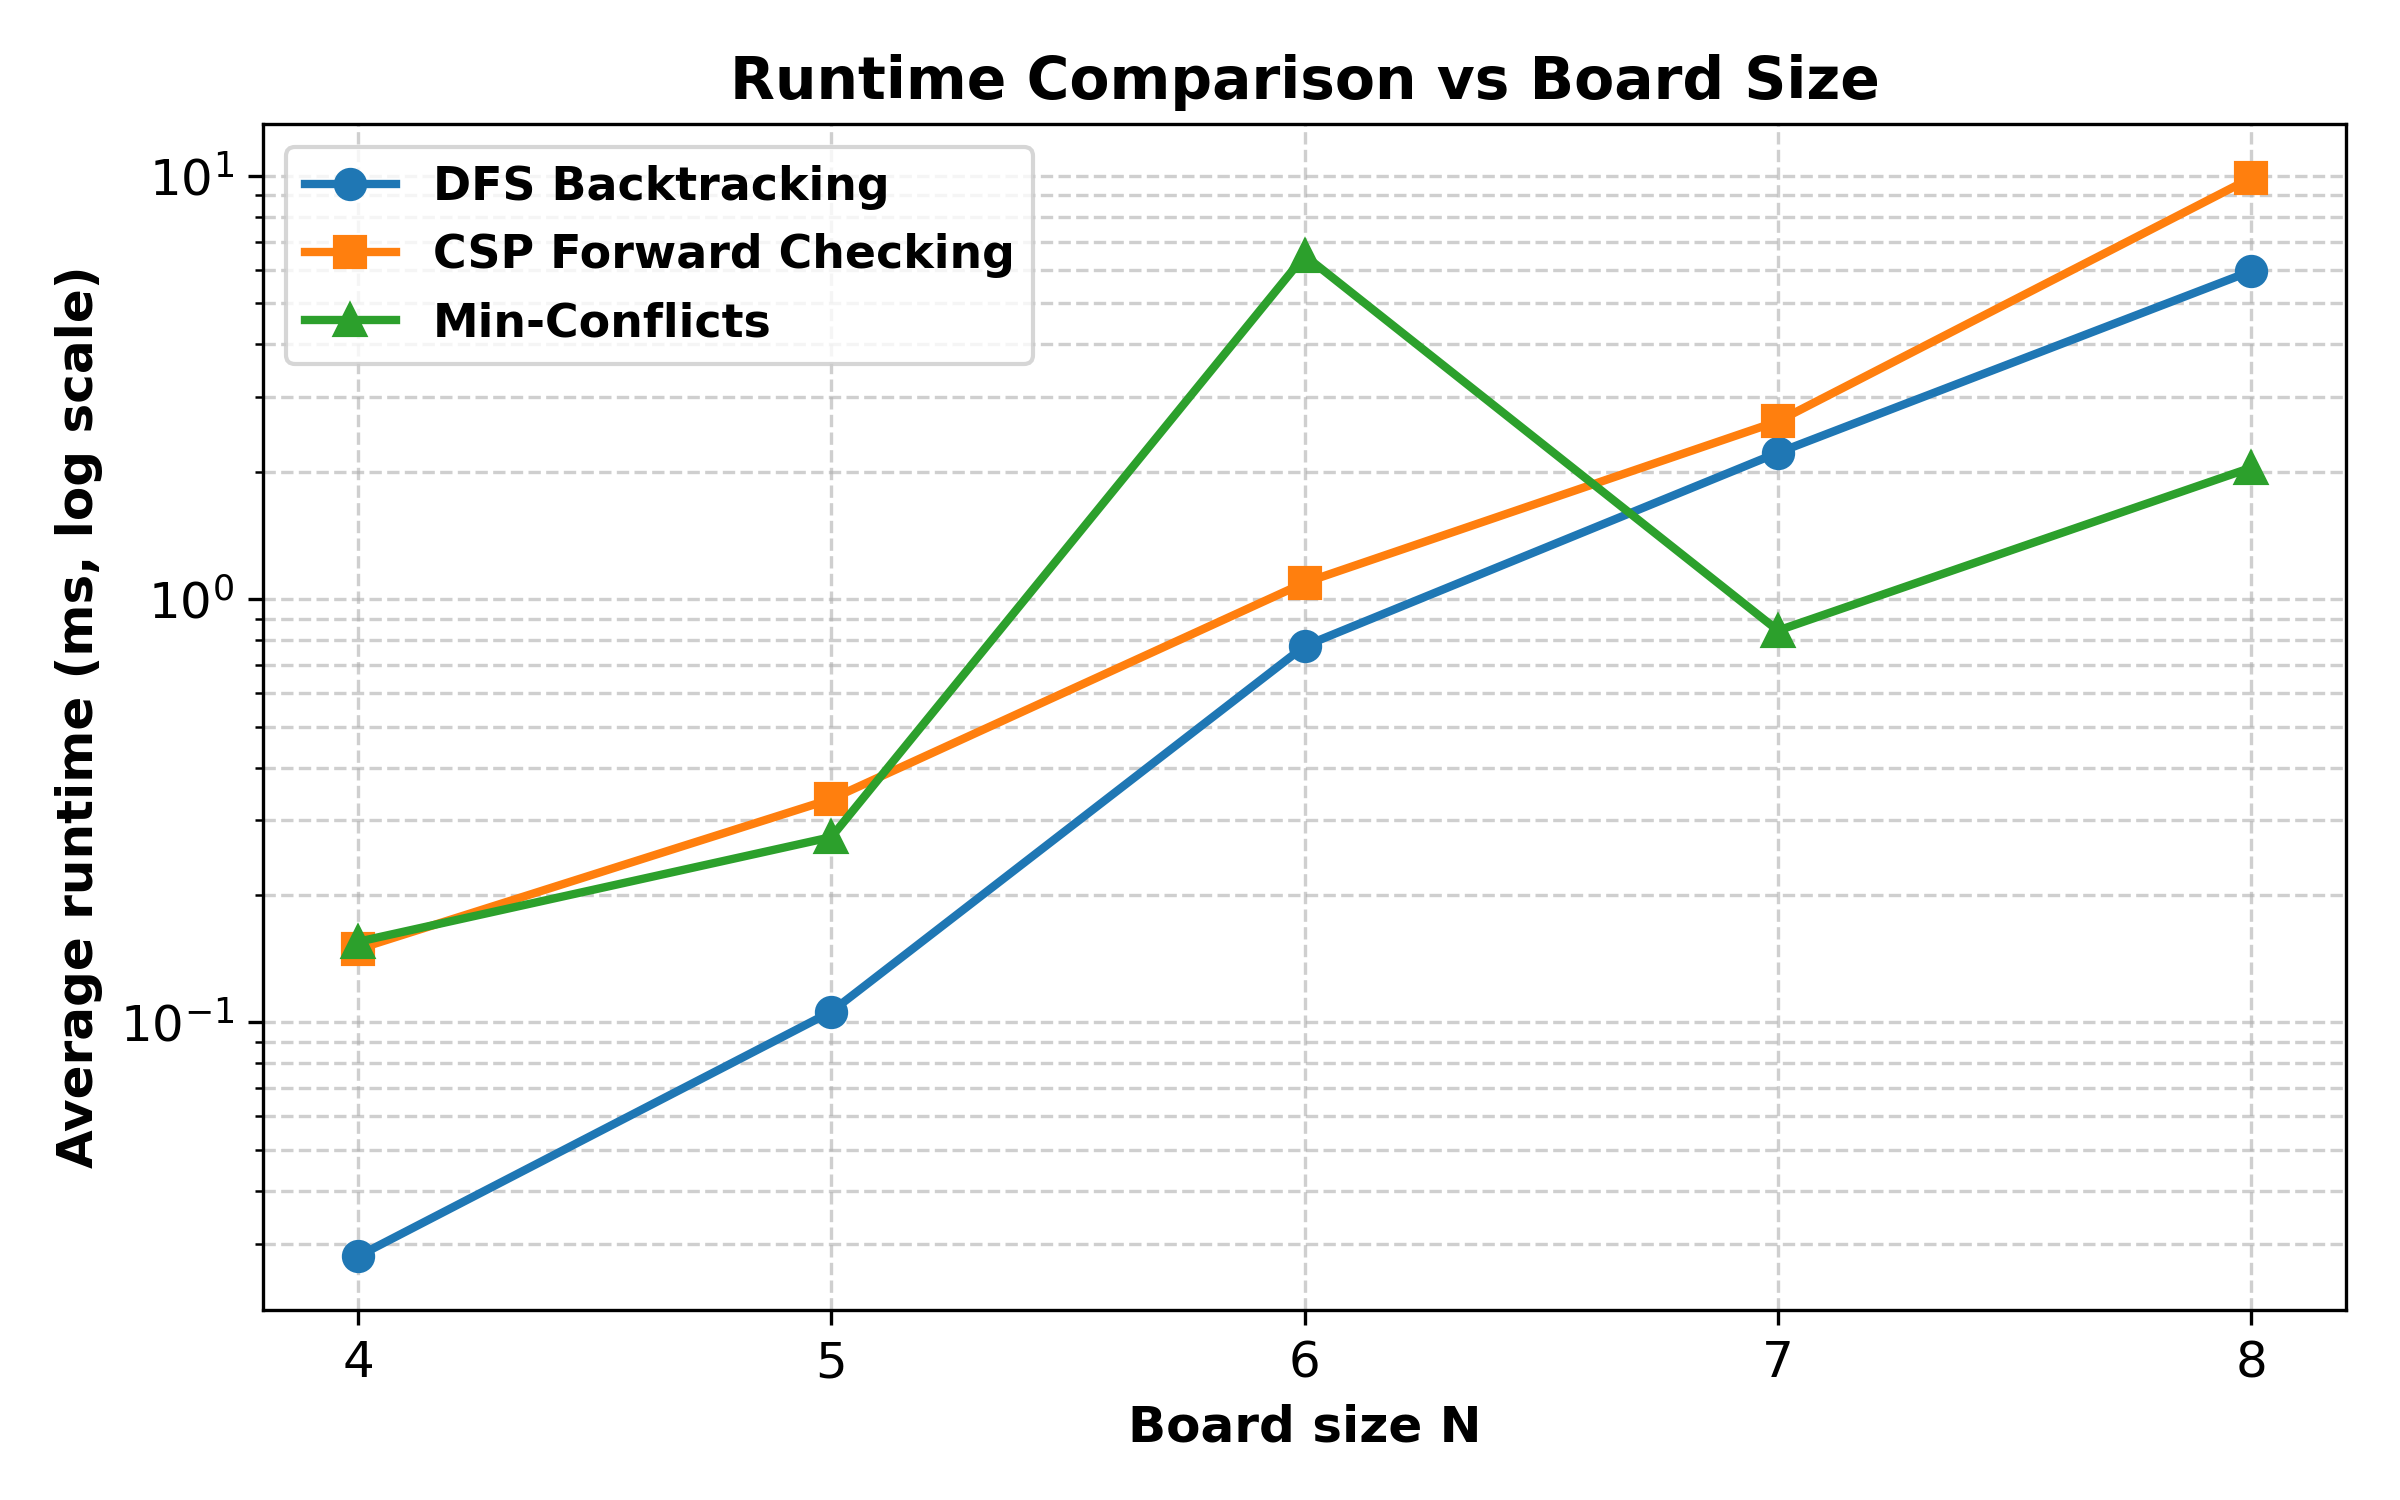
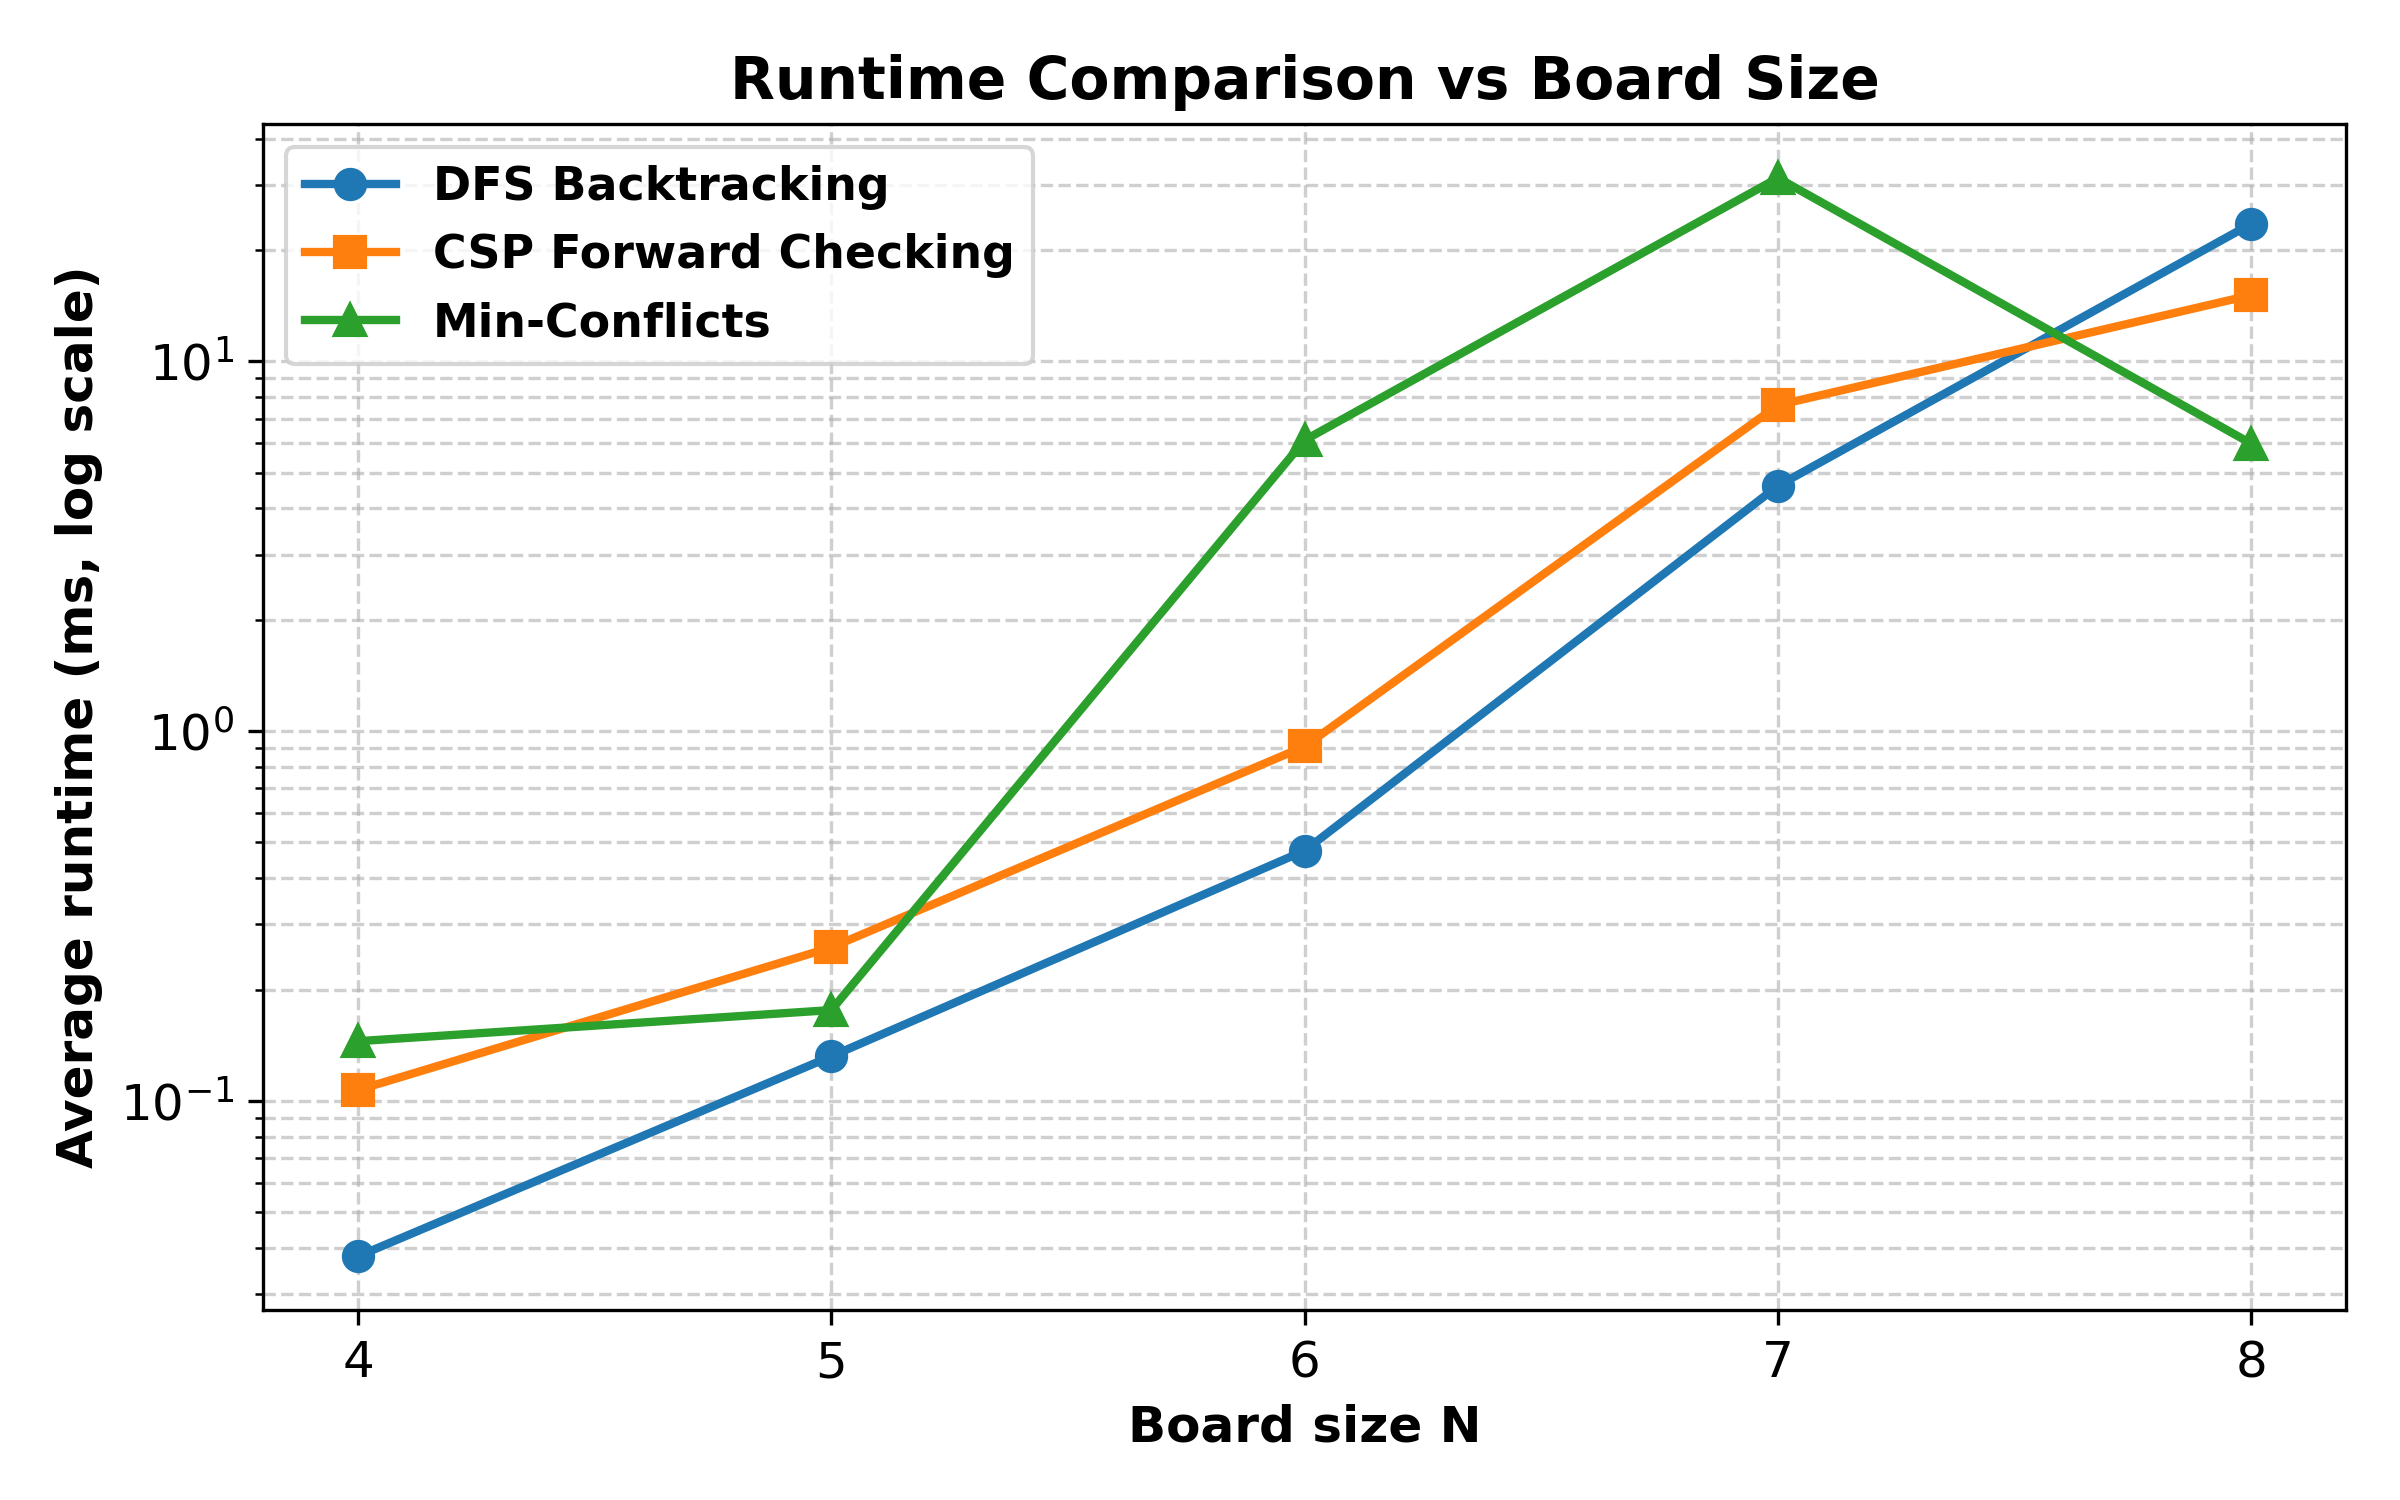
set seed for rng, rerun tests, add more metrics in benchmark

diff --git a/algorithms/local_min_conflicts.py b/algorithms/local_min_conflicts.py
@@ -12,23 +12,56 @@ Why local search uses a complete state:
     we only remember the current board, so memory is O(n).
     Because each queen is already alone in its column, only row and
     diagonal attacks can remain.
+
+REPRODUCIBILITY (important for the report):
+    This algorithm is randomized in three places:
+        1. the random starting board (and the random restart boards),
+        2. the choice of WHICH conflicted column to move,
+        3. the tie-break between rows with the same number of conflicts.
+    Randomness is "pseudo-random": it comes from a formula that starts at a
+    number called the SEED. The same seed always produces the same sequence of
+    "random" numbers, so the same run gives exactly the same board, steps and
+    restarts every time.
+    To guarantee this we:
+        - never use the global `random` module (other code could change its
+          state), instead each call of min_conflicts() creates its OWN
+          generator: random.Random(seed);
+        - use a fixed DEFAULT_SEED, so even a call without a seed is repeatable;
+        - only use rng.random() (its output is guaranteed stable across Python
+          versions) and turn it into an integer ourselves in pick_random_index().
 """
 
 import random
 from typing import Optional
 
+# Seed used when the caller does not give one. Any fixed number works;
+# what matters is that it never changes between runs.
+DEFAULT_SEED = 42
 
-def create_random_board(n: int) -> list[int]:
+
+def pick_random_index(rng: random.Random, length: int) -> int:
+    """
+    Return a random integer in 0 .. length-1 using the generator `rng`.
+
+    rng.random() gives a float in [0.0, 1.0). Multiplying by `length` and
+    cutting off the decimals (int) gives an integer in [0, length-1].
+
+    Complexity: O(1).
+    """
+    return int(rng.random() * length)
+
+
+def create_random_board(n: int, rng: random.Random) -> list[int]:
     """
     Place one queen in every column at a random row.
 
-    Input:  n - board size.
+    Inputs: n - board size; rng - the seeded random generator to use.
     Output: board where board[col] = row.
     Complexity: O(n).
     """
     board: list[int] = []
     for _ in range(n):
-        board.append(random.randint(0, n - 1))
+        board.append(pick_random_index(rng, n))
     return board
 
 
@@ -88,6 +121,7 @@ def min_conflicts(
     max_steps: int = 1000,
     max_restarts: int = 50,
     initial_board: Optional[list[int]] = None,
+    seed: int = DEFAULT_SEED,
 ) -> tuple[Optional[list[int]], int, int]:
     """
     Min-Conflicts local search with random restarts.
@@ -95,11 +129,16 @@ def min_conflicts(
     Inputs:  n - board size; max_steps - moves allowed per attempt;
              max_restarts - number of random restarts allowed;
              initial_board - optional starting board for the first attempt
-             (used only to demonstrate; default is random).
+             (used only to demonstrate; default is random);
+             seed - seed of the random generator. Same seed -> identical
+             result (board, steps, restarts) on every run.
     Output:  (solution or None, total_steps, restart_count)
              total_steps counts every move across all attempts.
     Complexity: O(max_steps * n^2) per attempt.
     """
+    # Our OWN generator, started from the seed. All randomness below uses it.
+    rng = random.Random(seed)
+
     total_steps = 0
     restart_count = 0
 
@@ -110,7 +149,7 @@ def min_conflicts(
         if attempt == 0 and initial_board is not None:
             board = initial_board[:]
         else:
-            board = create_random_board(n)
+            board = create_random_board(n, rng)
 
         for _ in range(max_steps):
             # Goal test: no attacking pair left.
@@ -119,7 +158,8 @@ def min_conflicts(
 
             # Only queens that are under attack are worth moving.
             conflicted_columns = get_conflicted_columns(board, n)
-            var_col = random.choice(conflicted_columns)
+            var_col = conflicted_columns[
+                pick_random_index(rng, len(conflicted_columns))]
 
             # Try every row for this queen and remember the least-conflicted.
             best_rows: list[int] = []
@@ -133,7 +173,7 @@ def min_conflicts(
                     best_rows.append(row)
 
             # Random tie-breaking helps escape plateaus (equal-score moves).
-            board[var_col] = random.choice(best_rows)
+            board[var_col] = best_rows[pick_random_index(rng, len(best_rows))]
             total_steps += 1
 
         # Final check after the last move of this attempt.
@@ -160,12 +200,15 @@ def print_board(board: list[int], n: int) -> None:
 if __name__ == "__main__":
     board_size = 8
 
-    start_board = create_random_board(board_size)
+    # The demo uses a fixed seed, so every run prints exactly the same output.
+    demo_rng = random.Random(DEFAULT_SEED)
+    start_board = create_random_board(board_size, demo_rng)
+    print(f"Seed: {DEFAULT_SEED}")
     print(f"Initial board (board[col] = row): {start_board}")
     print(f"Initial conflicts: {get_total_conflicts(start_board, board_size)}")
 
     solution, steps_taken, restarts_used = min_conflicts(
-        board_size, initial_board=start_board
+        board_size, initial_board=start_board, seed=DEFAULT_SEED
     )
 
     if solution is None:

diff --git a/experiments/benchmark_runner.py b/experiments/benchmark_runner.py
@@ -24,6 +24,12 @@ from algorithms.local_min_conflicts import get_total_conflicts, min_conflicts
 BOARD_SIZES = [4, 5, 6, 7, 8]
 SYSTEMATIC_REPEATS = 10      # runs per N for DFS and CSP
 LOCAL_SEARCH_RUNS = 20       # runs per N for Min-Conflicts
+
+# REPRODUCIBILITY: Min-Conflicts is randomized, so every run gets its own FIXED
+# seed (BENCHMARK_SEED + n * 100 + run_index). Re-running this script gives
+# exactly the same solutions, steps and restarts. Runtimes (ms) still vary a
+# little because they depend on the computer, but all counts are identical.
+BENCHMARK_SEED = 2024
 CSV_PATH = os.path.join(PROJECT_ROOT, "experiments", "results_logger.csv")
 CSV_HEADERS = [
     "board_size",
@@ -32,6 +38,8 @@ CSV_HEADERS = [
     "safe_checks",
     "valid_nodes",
     "avg_runtime_ms",
+    "avg_steps",
+    "avg_restarts",
 ]
 
 
@@ -61,23 +69,31 @@ def benchmark_systematic(algorithm_name: str, solver, n: int) -> dict:
         "safe_checks": safe_checks,
         "valid_nodes": valid_nodes,
         "avg_runtime_ms": total_time_ms / SYSTEMATIC_REPEATS,
+        "avg_steps": "N/A",       # only meaningful for Min-Conflicts
+        "avg_restarts": "N/A",
     }
 
 
 def benchmark_min_conflicts(n: int) -> dict:
     """
     Time Min-Conflicts: each run finds ONE solution. It is randomized, so we
-    average the runtime over LOCAL_SEARCH_RUNS runs.
+    average over LOCAL_SEARCH_RUNS runs, each with its own fixed seed so the
+    steps and restarts are reproducible.
 
     Min-Conflicts has no search tree, so safe_checks and valid_nodes do not
     apply and are recorded as "N/A".
     """
     total_time_ms = 0.0
+    total_steps = 0
+    total_restarts = 0
 
-    for _ in range(LOCAL_SEARCH_RUNS):
+    for run_index in range(LOCAL_SEARCH_RUNS):
+        run_seed = BENCHMARK_SEED + n * 100 + run_index
         start_time = time.perf_counter()
-        board, _, _ = min_conflicts(n)
+        board, steps_taken, restarts_used = min_conflicts(n, seed=run_seed)
         end_time = time.perf_counter()
+        total_steps += steps_taken
+        total_restarts += restarts_used
         total_time_ms += (end_time - start_time) * 1000.0
 
         # Safety net: make sure every timed run really produced a solution.
@@ -91,6 +107,8 @@ def benchmark_min_conflicts(n: int) -> dict:
         "safe_checks": "N/A",
         "valid_nodes": "N/A",
         "avg_runtime_ms": total_time_ms / LOCAL_SEARCH_RUNS,
+        "avg_steps": total_steps / LOCAL_SEARCH_RUNS,
+        "avg_restarts": total_restarts / LOCAL_SEARCH_RUNS,
     }
 
 
@@ -103,6 +121,13 @@ def run_all_benchmarks() -> list[dict]:
         rows.append(benchmark_systematic("CSP Forward Checking", solve_all_csp, n))
         rows.append(benchmark_min_conflicts(n))
     return rows
+
+
+def format_optional_number(value) -> str:
+    """Format a number to 3 decimals, or keep text such as "N/A" unchanged."""
+    if isinstance(value, str):
+        return value
+    return f"{value:.3f}"
 
 
 def save_to_csv(rows: list[dict], file_path: str) -> None:
@@ -118,6 +143,8 @@ def save_to_csv(rows: list[dict], file_path: str) -> None:
                 row["safe_checks"],
                 row["valid_nodes"],
                 f"{row['avg_runtime_ms']:.3f}",
+                format_optional_number(row["avg_steps"]),
+                format_optional_number(row["avg_restarts"]),
             ])
 
 
@@ -144,8 +171,9 @@ def print_markdown_table(title: str, rows: list[dict], column_key: str,
             for row in rows:
                 if row["algorithm"] == algorithm_name and row["board_size"] == n:
                     value = row[column_key]
-                    if column_key == "avg_runtime_ms":
-                        cells.append(f"{value:.3f}")
+                    if column_key in ("avg_runtime_ms", "avg_steps",
+                                      "avg_restarts"):
+                        cells.append(format_optional_number(value))
                     else:
                         cells.append(str(value))
         print(f"| {algorithm_name} | " + " | ".join(cells) + " |")
@@ -167,6 +195,11 @@ def main() -> None:
                          f"DFS/CSP: mean of {SYSTEMATIC_REPEATS} runs "
                          f"(all solutions). Min-Conflicts: mean of "
                          f"{LOCAL_SEARCH_RUNS} runs (one solution).")
+    print_markdown_table("Min-Conflicts average steps", rows, "avg_steps",
+                         f"Mean moves over {LOCAL_SEARCH_RUNS} seeded runs "
+                         f"(seed = {BENCHMARK_SEED} + N*100 + run index).")
+    print_markdown_table("Min-Conflicts average restarts", rows, "avg_restarts",
+                         "Mean random restarts per run.")
     print(f"Saved {len(rows)} rows to {CSV_PATH}")
 
 
